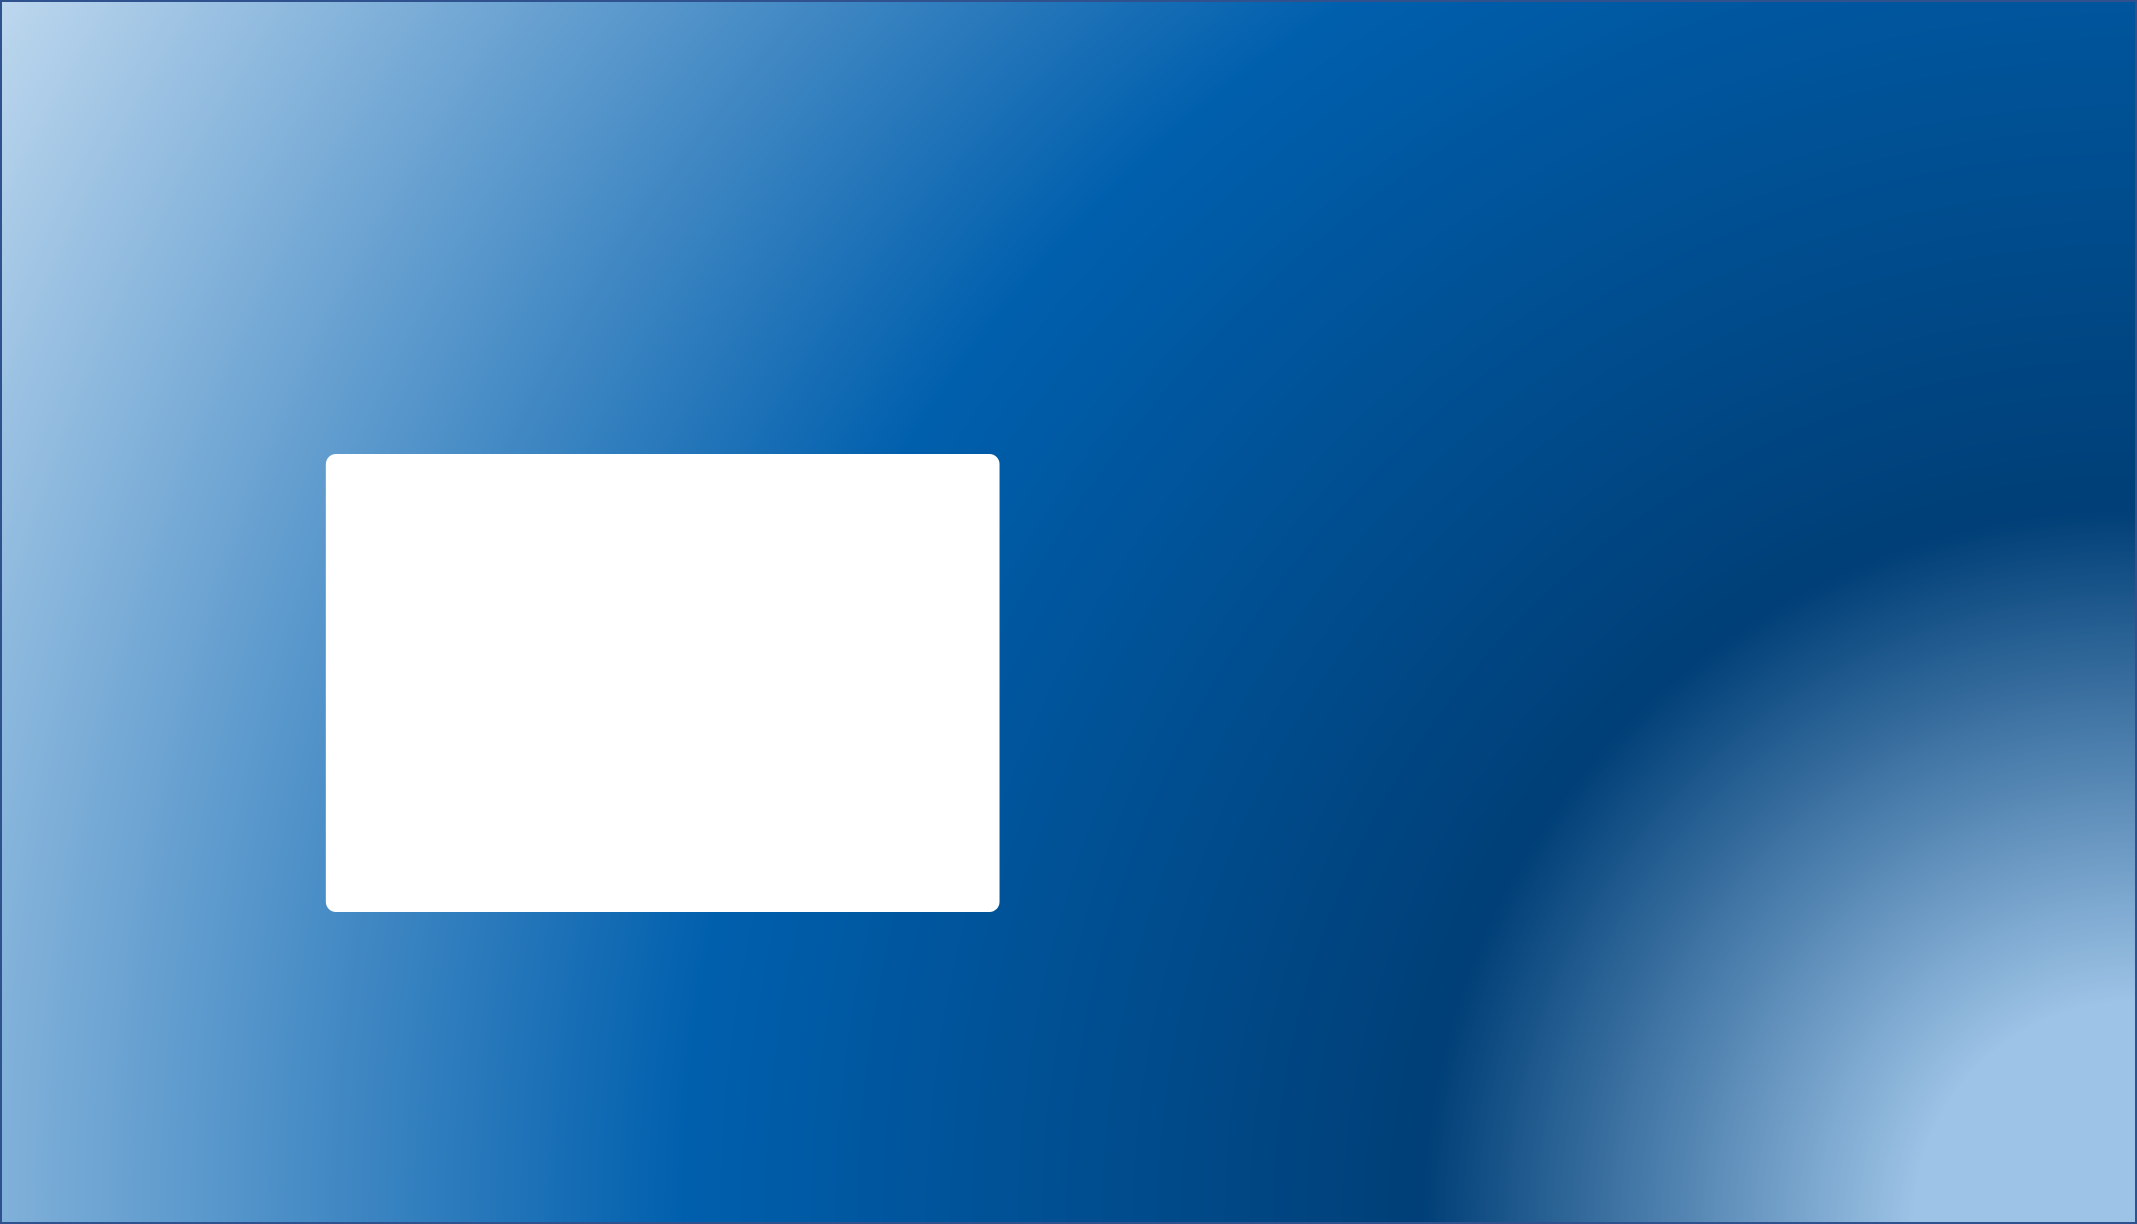
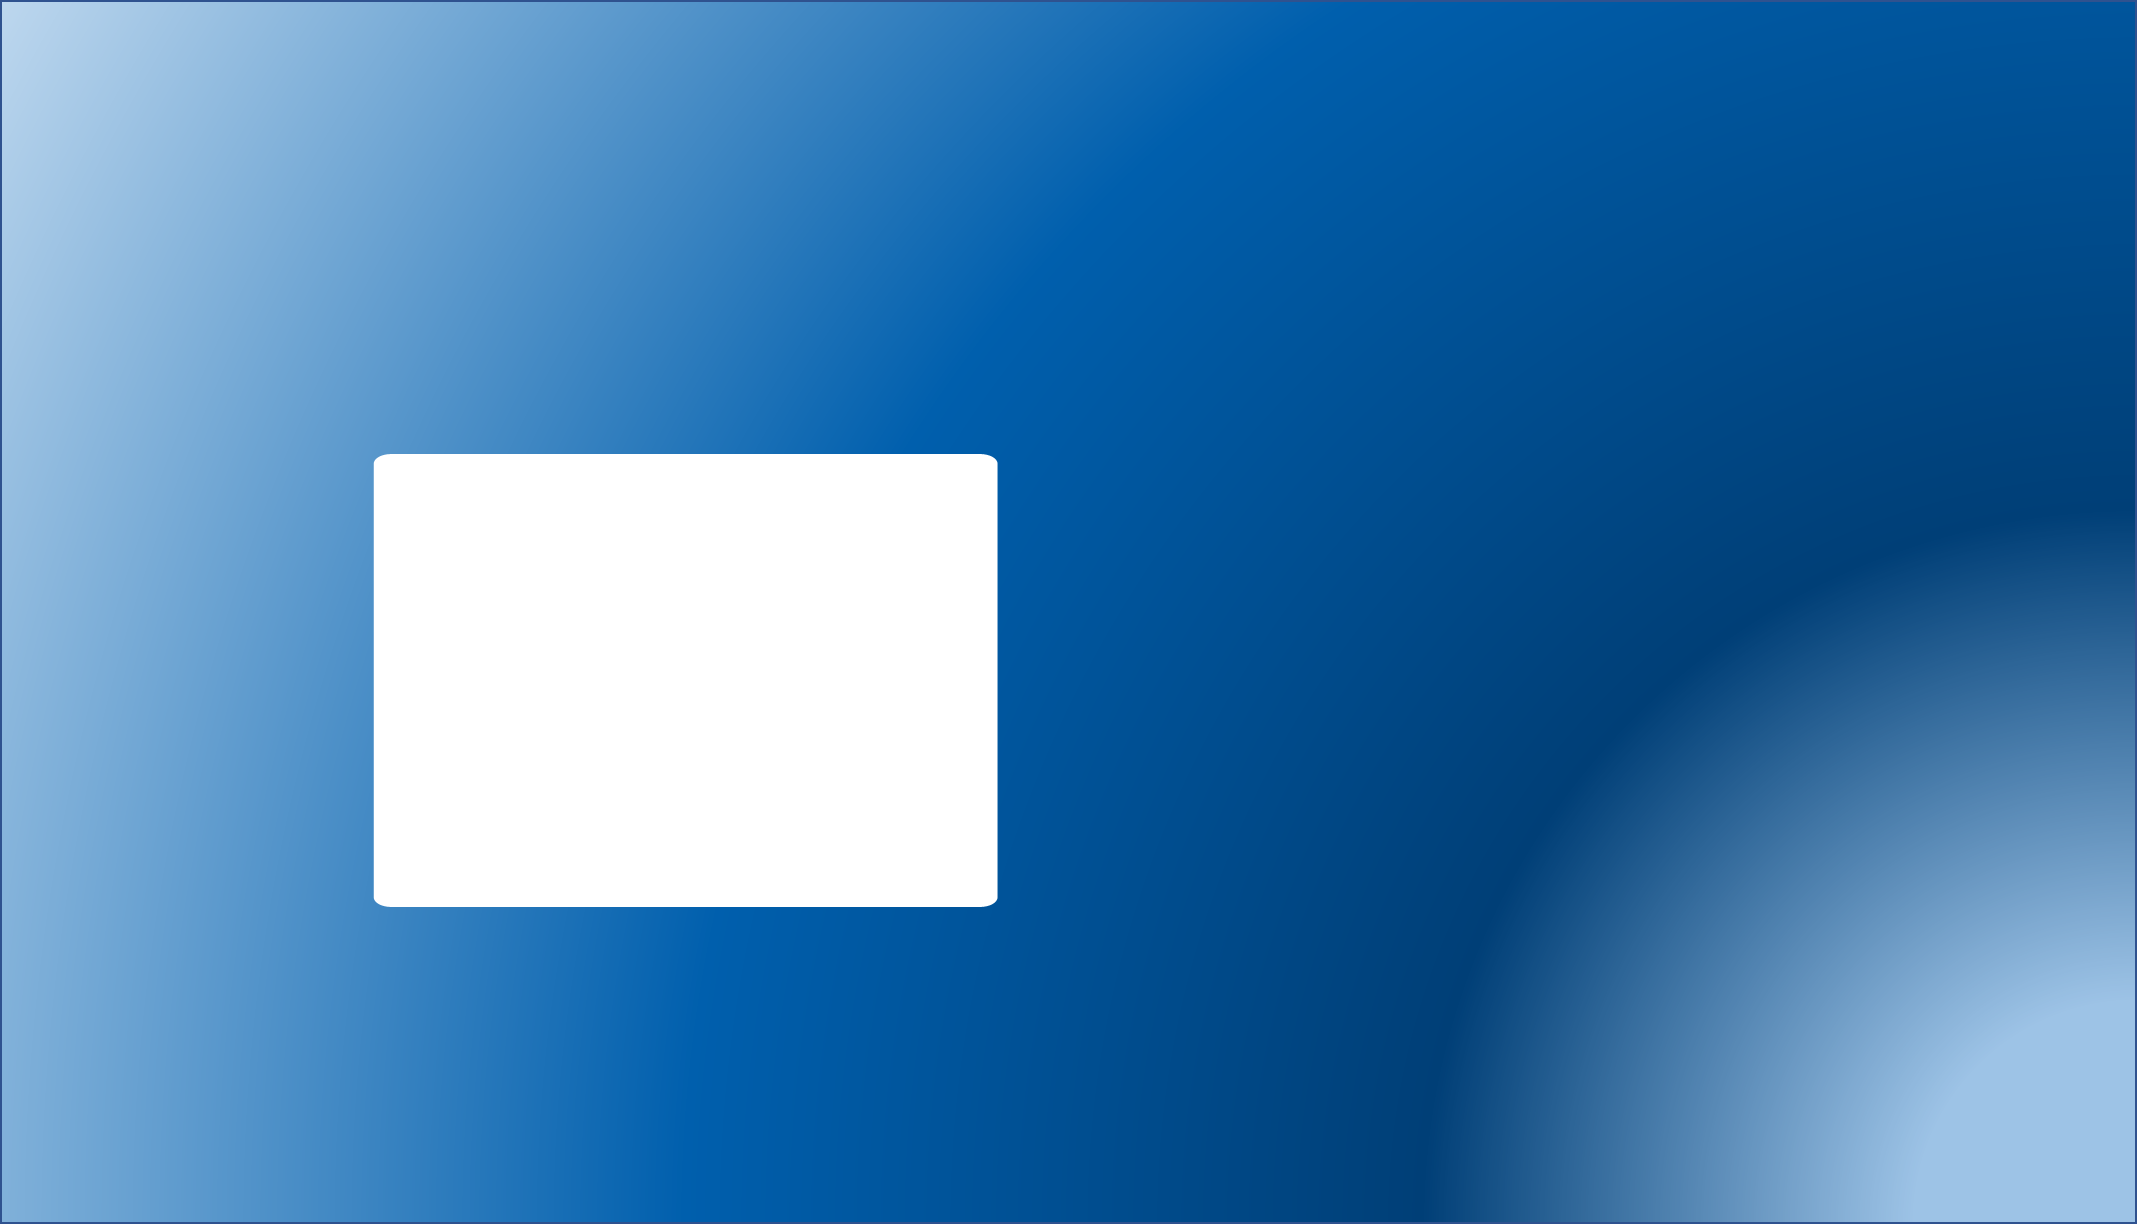
reverttttttttt

Changed region(s): [[0.1544, 0.3725, 0.4633, 0.7451]]

diff --git a/Student Housing GUI/src/LoginScreen.java b/Student Housing GUI/src/LoginScreen.java
@@ -3,7 +3,6 @@ import java.awt.Color;
 import java.awt.Dimension;
 import java.awt.EventQueue;
 import java.awt.Font;
-import java.awt.SystemColor;
 import java.awt.Toolkit;
 
 import javax.swing.JFrame;
@@ -105,6 +104,7 @@ public class LoginScreen extends AppWindowPanel{
 		SID = new JTextField();
 <<<<<<< HEAD
 <<<<<<< HEAD
+<<<<<<< HEAD
 		SID.setBounds(620, 380, 290, 30);
 =======
 		SID.setBounds(630, 355, 290, 30);
@@ -112,6 +112,9 @@ public class LoginScreen extends AppWindowPanel{
 =======
 		SID.setBounds(595, 380, 290, 30);
 >>>>>>> parent of 8b64d5d... visual changes
+=======
+		SID.setBounds(620, 380, 290, 30);
+>>>>>>> parent of fec4764... Merge branch 'master' of https://github.com/tfang0252/Housing-Application
 		
 		/*
 		 * jumps to password when enter is pressed
@@ -146,6 +149,7 @@ public class LoginScreen extends AppWindowPanel{
 		PW = new JPasswordField();
 <<<<<<< HEAD
 <<<<<<< HEAD
+<<<<<<< HEAD
 		PW.setBounds(620, 470, 290, 30);
 =======
 		PW.setBounds(630, 427, 290, 30);
@@ -153,6 +157,9 @@ public class LoginScreen extends AppWindowPanel{
 =======
 		PW.setBounds(595, 470, 290, 30);
 >>>>>>> parent of 8b64d5d... visual changes
+=======
+		PW.setBounds(620, 470, 290, 30);
+>>>>>>> parent of fec4764... Merge branch 'master' of https://github.com/tfang0252/Housing-Application
 		
 		/*
 		 * attempts to login when enter is pressed in pw field
@@ -224,6 +231,7 @@ public class LoginScreen extends AppWindowPanel{
 		JLabel studentID = new JLabel("");
 <<<<<<< HEAD
 <<<<<<< HEAD
+<<<<<<< HEAD
 		studentID.setBounds(620, 22, 1034, 683);
 =======
 		studentID.setBounds(630, -10, 1034, 683);
@@ -231,10 +239,14 @@ public class LoginScreen extends AppWindowPanel{
 =======
 		studentID.setBounds(570, 30, 1034, 683);
 >>>>>>> parent of 8b64d5d... visual changes
+=======
+		studentID.setBounds(620, 22, 1034, 683);
+>>>>>>> parent of fec4764... Merge branch 'master' of https://github.com/tfang0252/Housing-Application
 		studentID.setIcon(new ImageIcon("Images/S-ID.png"));
 		this.add(studentID);
 		
 		JLabel password = new JLabel("");
+<<<<<<< HEAD
 <<<<<<< HEAD
 <<<<<<< HEAD
 		password.setBounds(620, 112, 1034, 683);
@@ -244,6 +256,9 @@ public class LoginScreen extends AppWindowPanel{
 =======
 		password.setBounds(580, 120, 1034, 683);
 >>>>>>> parent of 8b64d5d... visual changes
+=======
+		password.setBounds(620, 112, 1034, 683);
+>>>>>>> parent of fec4764... Merge branch 'master' of https://github.com/tfang0252/Housing-Application
 		password.setIcon(new ImageIcon("Images/Password.png"));
 		this.add(password);
 		
@@ -256,6 +271,7 @@ public class LoginScreen extends AppWindowPanel{
 		JLabel logo = new JLabel("");
 <<<<<<< HEAD
 <<<<<<< HEAD
+<<<<<<< HEAD
 		logo.setIcon(new ImageIcon("Images/eagleLogo.png"));
 		logo.setBounds(700, -100, 1034, 683);
 =======
@@ -266,6 +282,10 @@ public class LoginScreen extends AppWindowPanel{
 		logo.setIcon(new ImageIcon("Images/Eagle.png"));
 		logo.setBounds(710, -110, 1034, 683);
 >>>>>>> parent of 8b64d5d... visual changes
+=======
+		logo.setIcon(new ImageIcon("Images/eagleLogo.png"));
+		logo.setBounds(700, -100, 1034, 683);
+>>>>>>> parent of fec4764... Merge branch 'master' of https://github.com/tfang0252/Housing-Application
 		this.add(logo);
 
 		JLabel lblBackground = new JLabel("");
@@ -275,7 +295,7 @@ public class LoginScreen extends AppWindowPanel{
 		this.add(lblBackground);
 		
 		JButton confirm = new JButton("Login");
-		confirm.setFont(new Font("Arial Rounded MT Bold", Font.PLAIN, 28));
+		confirm.setFont(new Font("Arial Black", Font.PLAIN, 16));
 		confirm.addActionListener(new ActionListener(){
 			public void actionPerformed(ActionEvent arg0){		
 				readFile();
@@ -319,6 +339,7 @@ public class LoginScreen extends AppWindowPanel{
 		});
 <<<<<<< HEAD
 <<<<<<< HEAD
+<<<<<<< HEAD
 		confirm.setBounds(620, 515, 150, 40);
 =======
 		confirm.setBounds(630, 475, 150, 40);
@@ -326,9 +347,12 @@ public class LoginScreen extends AppWindowPanel{
 =======
 		confirm.setBounds(595, 515, 150, 40);
 >>>>>>> parent of 8b64d5d... visual changes
+=======
+		confirm.setBounds(620, 515, 150, 40);
+>>>>>>> parent of fec4764... Merge branch 'master' of https://github.com/tfang0252/Housing-Application
 		confirm.setIcon(null);
-		confirm.setBackground(new Color(0, 102, 51));
-		confirm.setForeground(SystemColor.controlHighlight);
+		confirm.setBackground(new Color(192, 192, 192));
+		confirm.setForeground(new Color(0, 0, 0));
 		this.add(confirm);
 		
 		JLabel blueBackground = new JLabel("");

diff --git a/Student Housing GUI/src/StudentHousing.java b/Student Housing GUI/src/StudentHousing.java
@@ -43,8 +43,8 @@ public class StudentHousing extends AppWindowPanel{
 					}
 				});
 				
-				NLRadioButton.setOpaque(false);
-				NLRadioButton.setBounds(485, 575, 21, 14);
+				NLRadioButton.setBackground(new Color(102, 153, 102));
+				NLRadioButton.setBounds(169, 350, 21, 14);
 				this.add(NLRadioButton);
 				
 				SLRadioButton = new JRadioButton("");
@@ -57,8 +57,8 @@ public class StudentHousing extends AppWindowPanel{
 					
 				});
 				
-				SLRadioButton.setOpaque(false);
-				SLRadioButton.setBounds(155, 575, 21, 14);
+				SLRadioButton.setBackground(new Color(102, 153, 102));
+				SLRadioButton.setBounds(495, 350, 21, 14);
 				this.add(SLRadioButton);
 				
 				WLRadioButton = new JRadioButton("");
@@ -69,8 +69,8 @@ public class StudentHousing extends AppWindowPanel{
 						NLRadioButton.setSelected(false);	
 					}
 				});
-				WLRadioButton.setOpaque(false);
-				WLRadioButton.setBounds(815, 575, 21, 14);
+				WLRadioButton.setBackground(new Color(102, 153, 102));
+				WLRadioButton.setBounds(824, 350, 21, 14);
 				this.add(WLRadioButton);
 				
 				//following codes sets the images for each button,
@@ -86,7 +86,9 @@ public class StudentHousing extends AppWindowPanel{
 						WLRadioButton.setSelected(false);
 					}
 				});
-
+				lblNLVillage.setIcon(new ImageIcon("Images/NLButton.png"));
+				lblNLVillage.setBounds(31, 222, 286, 163);
+				this.add(lblNLVillage);
 				
 				JLabel lblSLVillage = new JLabel("");
 				lblSLVillage.addMouseListener(new MouseAdapter() {
@@ -97,7 +99,10 @@ public class StudentHousing extends AppWindowPanel{
 						WLRadioButton.setSelected(false);
 					}
 				});
-	
+				lblSLVillage.setIcon(new ImageIcon("Images/SLButton.png"));
+				lblSLVillage.setBounds(356, 222, 286, 163);
+				this.add(lblSLVillage);
+				
 				JLabel lblWLVillage = new JLabel("");
 				lblWLVillage.addMouseListener(new MouseAdapter() {
 					@Override
@@ -107,12 +112,14 @@ public class StudentHousing extends AppWindowPanel{
 						WLRadioButton.setSelected(true);
 					}
 				});
-
+				lblWLVillage.setIcon(new ImageIcon("Images/WLButton.png"));
+				lblWLVillage.setBounds(684, 222, 286, 163);
+				this.add(lblWLVillage);
 				
-/*				JLabel lblLogo = new JLabel("");
+				JLabel lblLogo = new JLabel("");
 				lblLogo.setIcon(new ImageIcon("Images/FGCU-logo.png"));
 				lblLogo.setBounds(684, 11, 300, 150);
-				this.add(lblLogo);*/
+				this.add(lblLogo);
 				
 				//button to select housing option
 				//will return error message if an option is not selected
@@ -135,7 +142,7 @@ public class StudentHousing extends AppWindowPanel{
 						}				
 					}
 				});
-				btnSelectHousing.setBounds(430, 617, 134, 29);
+				btnSelectHousing.setBounds(436, 470, 134, 29);
 				this.add(btnSelectHousing);
 				
 				//sets background image

diff --git a/Student Housing GUI/src/MainScreen.java b/Student Housing GUI/src/MainScreen.java
@@ -96,10 +96,11 @@ public class MainScreen extends AppWindowPanel{
 		BwhiteBox = new JLabel("");
 		BwhiteBox.setBounds(260, 70, 1050, 683);
 		BwhiteBox.setIcon(new ImageIcon("Images/BWhiteBox.png"));
-		//this.add(BwhiteBox);
+		this.add(BwhiteBox);
 		
 		blueBackground = new JLabel("");
 		blueBackground.setBounds(-30, -0, 1034, 683);
+<<<<<<< HEAD
 <<<<<<< HEAD
 <<<<<<< HEAD
 		blueBackground.setIcon(new ImageIcon("Images/BlueBG3.png"));
@@ -109,6 +110,9 @@ public class MainScreen extends AppWindowPanel{
 =======
 		blueBackground.setIcon(new ImageIcon("Images/BlueBG.png"));
 >>>>>>> parent of 8b64d5d... visual changes
+=======
+		blueBackground.setIcon(new ImageIcon("Images/BlueBG3.png"));
+>>>>>>> parent of fec4764... Merge branch 'master' of https://github.com/tfang0252/Housing-Application
 		this.add(blueBackground);
 		
 		window.addMouseMotionListener(new MouseMotionAdapter(){
